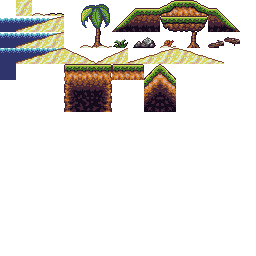
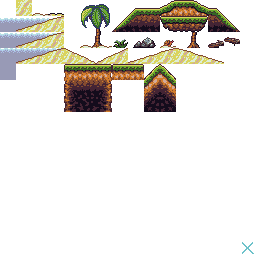
implemented a platform

Changed region(s): [[0.0, 0.0625, 0.2188, 0.3125], [0.9375, 0.9375, 1.0, 1.0]]

diff --git a/onlinerpg/src/net/alcuria/online/client/Actor.java b/onlinerpg/src/net/alcuria/online/client/Actor.java
@@ -32,6 +32,7 @@ public class Actor {
 	protected Texture debugPoint;					// a small point to display for the sensor points
 	public AssetManager assets;						// player assets
 	public StatusEffects effects;					// all of the actor's status effects
+	public Platform curPlatform;					// current platform player is touching
 
 	public Sound jump;
 	public Sound shoot;
@@ -117,6 +118,31 @@ public class Actor {
 
 		// status effects handler
 		effects = new StatusEffects(this, assets);
+
+	}
+
+	public void checkIfOnMovingPlatform(Map map){
+
+		curPlatform = null;
+		for (int i = 0; i < map.platforms.length; i++){
+			if (map.platforms[i] != null && yVel <= 0) {
+				if (bounds.overlaps(map.platforms[i].bounds)){
+
+					if (curPlatform == null) {
+						yVel = 0;
+						onGround = true;
+						curPlatform = map.platforms[i];
+
+						while (bounds.overlaps(map.platforms[i].bounds)){
+							bounds.y++;
+						}
+						bounds.y--;
+						return;
+					}
+
+				} 
+			}
+		}
 		
 	}
 
@@ -132,6 +158,9 @@ public class Actor {
 		// ############################ STEP X #################################
 
 		bounds.x = bounds.x + xVel;
+		if (curPlatform != null) {
+			bounds.x += curPlatform.dX;
+		}
 		setAllSensors(bounds.x, bounds.y);
 
 
@@ -219,10 +248,13 @@ public class Actor {
 
 		oldY = bounds.y;
 		bounds.y = bounds.y + yVel;
+		if (curPlatform != null) {
+			bounds.y += curPlatform.dY;
+		}
 		setAllSensors(bounds.x, bounds.y);
 
 		// add gravity's acceleration
-		if (onGround){
+		if (onGround || curPlatform != null){
 			yVel = 0;
 		} else if (yVel > TERMINAL_YVEL) {
 			yVel -= GRAVITY;
@@ -233,14 +265,14 @@ public class Actor {
 		lastFrameInAir = false;
 		if (map.getTileAtPoint(sensorX[0], oldY) == 0 || map.getTileAtPoint(sensorX[1], oldY) == 0){
 			lastFrameInAir = true;
-			
+
 		}
-		
+
 		// check if either sensor point A OR B touches the ground
 		if (yVel <= 0 && (map.getSubTileAtPoint(sensorX[0], sensorY[0], yVel) != map.COLL_EMPTY || map.getSubTileAtPoint(sensorX[1], sensorY[1], yVel) != map.COLL_EMPTY)){
 
 			if (map.getTileAtPoint(sensorX[0], sensorY[0]) == map.COLL_DOWNBLOCKING){
-				
+
 				/*
 				if (!lastFrameInAir){
 					if ((map.getTileAtPoint(sensorX[0], sensorY[0]+1) == map.COLL_EMPTY || map.getTileAtPoint(sensorX[1], sensorY[0]+1) == map.COLL_EMPTY )){
@@ -250,7 +282,7 @@ public class Actor {
 						return;
 					}
 				}*/
-				
+
 			}
 			// set boundsY to the height of the TALLER of the two sensors
 			if(bounds.y - getHigherSensor(map) < 5){
@@ -273,17 +305,22 @@ public class Actor {
 		}
 
 		// check if we fall off an edge
-		if (onGround && (map.getSubTileAtPoint(sensorX[0], sensorY[0], yVel) == map.COLL_EMPTY && map.getSubTileAtPoint(sensorX[1], sensorY[1], yVel) == map.COLL_EMPTY)){
-			if(bounds.y - getHigherSensor(map) > 2){
-				onGround = false;
-			} else {
-				bounds.y = getHigherSensor(map);
-				setAllSensors(bounds.x, bounds.y);
+		if (curPlatform == null){
+			if (onGround && (map.getSubTileAtPoint(sensorX[0], sensorY[0], yVel) == map.COLL_EMPTY && map.getSubTileAtPoint(sensorX[1], sensorY[1], yVel) == map.COLL_EMPTY)){
+				if(bounds.y - getHigherSensor(map) > 2){
+					onGround = false;
+				} else {
+					bounds.y = getHigherSensor(map);
+					setAllSensors(bounds.x, bounds.y);
+				}
 			}
+		} else {
+			onGround = true;
 		}
 
 		// check for a JUMP
 		if (onGround && moveCommand[MOVE_JUMP] && !animation.swingPose && !animation.stabPose){
+			
 			moveCommand[MOVE_JUMP] = false;
 			onGround = false;
 			yVel = jumpPower/17;
@@ -305,7 +342,7 @@ public class Actor {
 		if (effects.timer[StatusEffects.FREEZE] <= 0) {
 			animation.update(facingLeft, onGround, moving, Gdx.graphics.getDeltaTime(), attackSpeed);
 		}
-		
+
 		if (hurtTimer < invincibilityPeriod){
 			hurtTimer += Gdx.graphics.getDeltaTime();
 		} 
@@ -324,7 +361,7 @@ public class Actor {
 			bounds.x = 5*16;
 			facingLeft = false;
 		}
-		
+
 		effects.update(this);
 
 	}
@@ -445,7 +482,7 @@ public class Actor {
 			}
 
 			if (flash) flashPostcheck(batch);
-			
+
 			effects.render(batch);
 
 		}

diff --git a/onlinerpg/src/net/alcuria/online/client/Map.java b/onlinerpg/src/net/alcuria/online/client/Map.java
@@ -69,6 +69,7 @@ public class Map {
 	public MonsterSpawner spawner;
 	public NPC[] npcs;
 	public TeleportManager teleports;
+	public Platform[] platforms;
 	AssetManager assets;
 	DamageList damageList;
 	CollisionManager collisions;
@@ -86,8 +87,8 @@ public class Map {
 	private Foreground fg;
 	public boolean containsEnemies = false;
 
-	public Map(String mapfile, AssetManager assets, DamageList damageList, Field s){
-		this.game = s;
+	public Map(String mapfile, AssetManager assets, DamageList damageList, Field f){
+		this.game = f;
 		this.damageList = damageList;
 		this.assets = assets;
 		create(mapfile);		
@@ -98,12 +99,19 @@ public class Map {
 		if (below){
 			for (int i = (int) (camera.offsetX/Config.TILE_WIDTH); i < camera.offsetX/Config.TILE_WIDTH+26; i++) {
 				for (int j = (int) camera.offsetY/Config.TILE_WIDTH; j < camera.offsetY/Config.TILE_WIDTH+15; j++) { 
-					if (height-1-j > 0 && i < width && lowerLayer[i][height-1-j] > 0){
+					if (height-1-j > 0 && i < width && lowerLayer[i][height-1-j] > 0 && lowerLayer[i][height-1-j] < 255){
 						batch.draw(tiles[lowerLayer[i][height-1-j]], i*tileWidth, j*tileWidth);
 					}
 				}
 			}
 
+			// render all platforms
+			for (int i = 0; i < platforms.length; i++){
+				if (platforms[i] != null){
+					platforms[i].render(game);
+				}
+			}
+			
 			if (spawner != null) spawner.render(batch);
 
 			for (int i = 0; i < npcs.length; i++){
@@ -116,7 +124,7 @@ public class Map {
 
 			for (int i = (int) (camera.offsetX/Config.TILE_WIDTH); i < camera.offsetX/Config.TILE_WIDTH+26; i++) {
 				for (int j = (int) camera.offsetY/Config.TILE_WIDTH; j < camera.offsetY/Config.TILE_WIDTH+15; j++) { 
-					if (height-1-j > 0 && i < width && upperLayer[i][height-1-j] > 0){
+					if (height-1-j > 0 && i < width && upperLayer[i][height-1-j] > 0 && upperLayer[i][height-1-j] < 255){
 						batch.draw(tiles[upperLayer[i][height-1-j]], i*tileWidth, j*tileWidth);
 					}
 				}
@@ -365,6 +373,11 @@ public class Map {
 			collisions = new CollisionManager(game.player, null, game.drops, game.slices, game.burns, game.freezes, game.inputs);
 
 		}
+		
+		// create the PLATFORMS
+		platforms = new Platform[10];
+		platforms[0] = new Platform(game);
+		
 
 	}
 
@@ -389,6 +402,14 @@ public class Map {
 		if (spawner != null && containsEnemies) spawner.update();
 		fg.update(Gdx.graphics.getDeltaTime());
 		collisions.update(this, damageList, game.explosions, game.items);
+		
+		// update platforms
+		for (int i = 0; i < platforms.length; i++){
+			if (platforms[i] != null){
+				platforms[i].update(game);
+			}
+		}
+		
 
 	}
 

diff --git a/onlinerpg/src/net/alcuria/online/client/Platform.java b/onlinerpg/src/net/alcuria/online/client/Platform.java
@@ -1,0 +1,107 @@
+package net.alcuria.online.client;
+
+import net.alcuria.online.client.screens.Field;
+
+import com.badlogic.gdx.Gdx;
+import com.badlogic.gdx.graphics.Texture;
+import com.badlogic.gdx.graphics.g2d.TextureRegion;
+import com.badlogic.gdx.math.Rectangle;
+
+public class Platform {
+
+	public float duration;
+	public float counter;
+	public float dX, dY, x, y;
+	public Rectangle bounds;
+	public Texture texture;
+	public TextureRegion region;
+
+	public boolean smoothing = true;
+	public float aX;
+	public float aY;
+	public float maxX;
+	public float maxY;
+
+	public boolean updateCtr;
+
+	public Platform(Field f){
+
+		texture = f.assets.get("sprites/platform.png", Texture.class);
+		region = new TextureRegion(texture, 0, 0, 52, 5);
+		bounds = new Rectangle(0, 0, 52, 5);
+
+		counter = 0;
+		duration = 0.50f;
+		dX = 0;
+		dY = 0;
+		x = 9*16;
+		y = 7*16;
+		maxX = 5;
+		maxY = 5;
+		aX = 0.1f;
+		aY = 0f;
+
+	}
+
+	public void update(Field f){
+
+		// smoothing acceleration apply
+		if (smoothing){
+			dX += aX;
+			dY += aY;
+			updateCtr = false;
+
+			if (dX >= maxX){
+				dX = maxX;
+				updateCtr = true;
+			}
+			if (dX <= 0 - maxX){
+				dX = 0 - maxX;
+				updateCtr = true;			
+			}
+
+			if (dY >= maxY){
+				dY = maxY;
+				updateCtr = true;				
+			}
+			if (dY <= 0 - maxY){
+				dY = 0 - maxY;
+				updateCtr = true;			
+			}
+
+			if (updateCtr){
+				counter += Gdx.graphics.getDeltaTime();
+			}
+		} else {
+			counter+= Gdx.graphics.getDeltaTime();
+		}
+
+		// step platform
+		x = x + dX;
+		y = y + dY;
+
+
+		// check if we should reverse the platform's direction
+		if (counter > duration){
+			counter = 0;
+			if (!smoothing) {
+				dX = -1 * dX;
+				dY = -1 * dY;
+			} else {
+				aX *= -1;
+				aY *= -1;
+			}
+		}
+
+		// update AABB's position
+		bounds.x = x;
+		bounds.y = y;
+
+	}
+
+	public void render(Field f){
+
+		f.batch.draw(region, x, y);
+
+	}
+}

diff --git a/onlinerpg/src/net/alcuria/online/client/screens/Field.java b/onlinerpg/src/net/alcuria/online/client/screens/Field.java
@@ -30,21 +30,21 @@ public class Field implements Screen {
 	public Game g;
 	public int slot;					// which slot the player has loaded
 
-	private SpriteBatch batch;
+	public SpriteBatch batch;
 	public InputHandler inputs;
 	public Player player;
 	public DropManager drops;
-	private DamageList damageList;
+	public DamageList damageList;
 	public ParticleList explosions;
 	public ParticleList slices;
 	public ParticleList freezes;
 	public ParticleList burns;
 	public Message msgBox;
-	private Map map;
+	public Map map;
 
 	public CameraManager cameraManager;
-	private HUD hud;
-	private Menu menu;
+	public HUD hud;
+	public Menu menu;
 	public ItemManager items;
 	public AssetManager assets;
 	public Rectangle viewport;
@@ -53,7 +53,6 @@ public class Field implements Screen {
 	float w;
 	float h;
 	float aspectRatio;
-	long before, after;
 
 	public Field(Game g, AssetManager assets, Player player, ItemManager items, int loadedSlot)
 	{
@@ -121,6 +120,9 @@ public class Field implements Screen {
 			
 			// we only want to call update on the actors if a messagebox/menu isn't open
 			if (!msgBox.visible && !menu.active && Transition.finished){
+				
+				// before we step anything, check if it's on a platform
+				player.checkIfOnMovingPlatform(map);
 				
 				// move all our actors: monsters, npcs, player
 				drops.update(map);

diff --git a/onlinerpg/src/net/alcuria/online/client/screens/Loading.java b/onlinerpg/src/net/alcuria/online/client/screens/Loading.java
@@ -140,6 +140,7 @@ public class Loading implements Screen
 		assets.load("sprites/sparkle.png", Texture.class);
 		assets.load("sprites/cast.png", Texture.class);
 		assets.load("sprites/ice.png", Texture.class);
+		assets.load("sprites/platform.png", Texture.class);
 		
 		// EQUIPS
 		assets.load("sprites/equips/hair/1.png", Texture.class);
